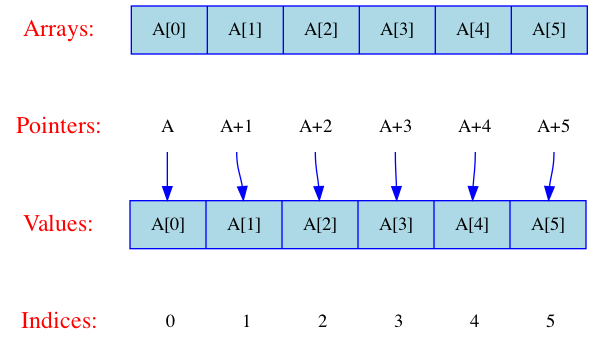
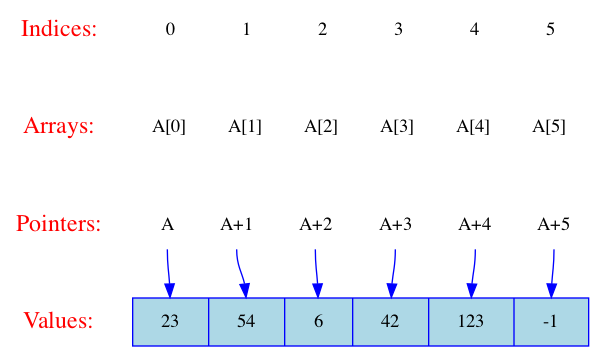
Forgot to write out .dot rendering. Updated link.

diff --git a/_posts/2021-01-12-teaching-data-structures.md b/_posts/2021-01-12-teaching-data-structures.md
@@ -33,7 +33,7 @@ So, for this course, I want to start at the basic level and draw the data struct
 Thankfully, there are [some nice examples](https://stackoverflow.com/a/45143147/12570) of this already available to get me started.
 
 <p align="center">
-<img src="https://i.stack.imgur.com/ze5zp.png" alt="Array shown graphically" width="500" height="200">
+<img src="https://kootsoop.github.io/images/array.png" alt="Array shown graphically" width="500" height="200">
 </p>
 
 The diagram above was generated using the [GraphViz](https://graphviz.org/) software, which I've used before in generating directed graphs for college program prerequisite visualization.
